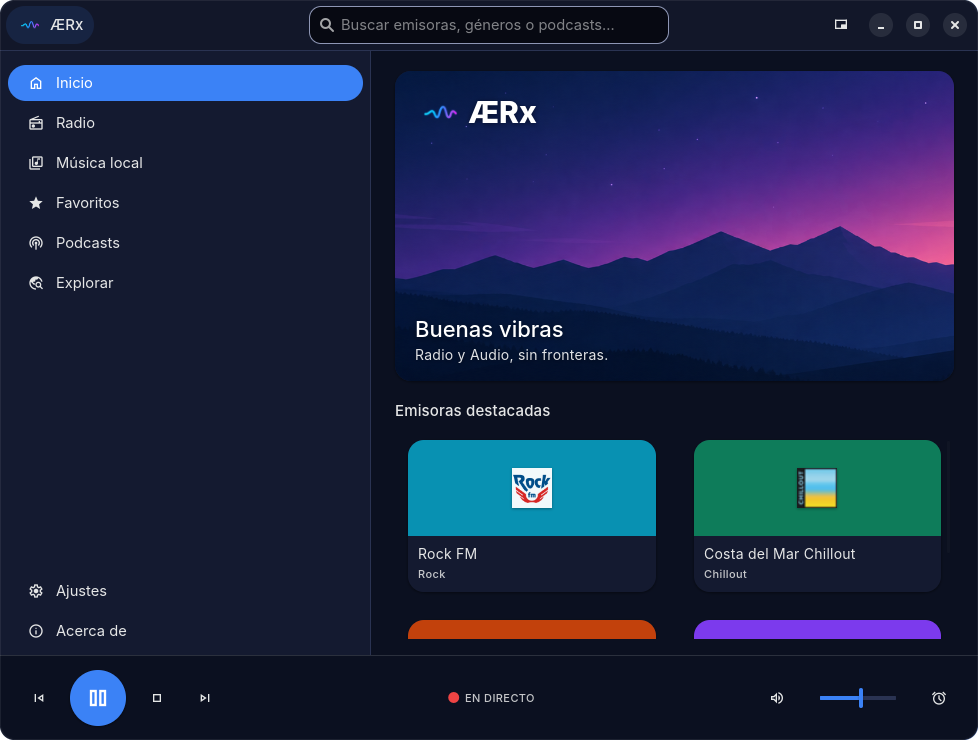
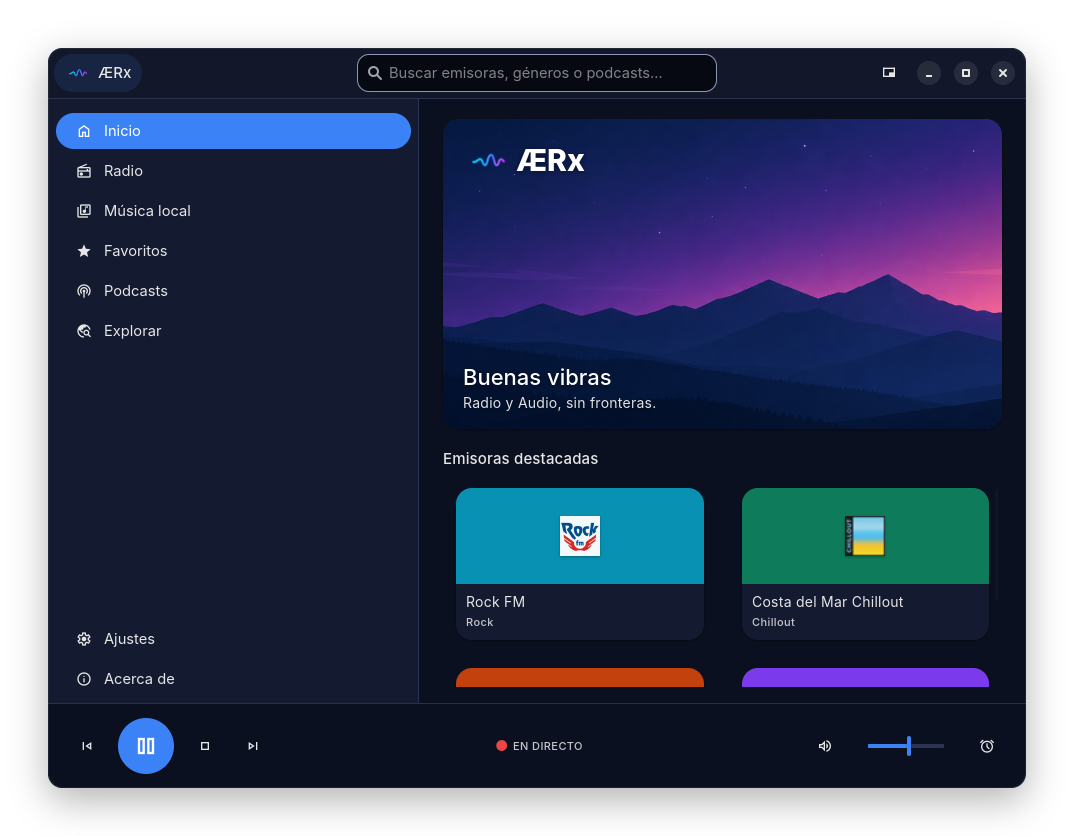
docs: sombra suave en las capturas del README
GitHub filtra el CSS del README, así que la sombra va integrada en el PNG
sobre un margen transparente; los anchos se ajustan para mantener el
tamaño visual de la ventana.

diff --git a/README.md b/README.md
@@ -52,22 +52,22 @@
 ## Interfaz
 
 <p align="center">
-  <img alt="Pantalla de inicio" src="assets/screenshots/inicio.png" width="720">
+  <img alt="Pantalla de inicio" src="assets/screenshots/inicio.png" width="791">
   <br><sub>Inicio — emisoras destacadas</sub>
 </p>
 
 <p align="center">
-  <img alt="Reproduciendo radio" src="assets/screenshots/radio.png" width="720">
+  <img alt="Reproduciendo radio" src="assets/screenshots/radio.png" width="791">
   <br><sub>Radio en directo — visualizador y anillo ambiental</sub>
 </p>
 
 <p align="center">
-  <img alt="Reproduciendo música local" src="assets/screenshots/musica-local.png" width="720">
+  <img alt="Reproduciendo música local" src="assets/screenshots/musica-local.png" width="791">
   <br><sub>Música local — fondo de carátula a pantalla completa</sub>
 </p>
 
 <p align="center">
-  <img alt="Modo mini-reproductor" src="assets/screenshots/mini.png" width="300">
+  <img alt="Modo mini-reproductor" src="assets/screenshots/mini.png" width="396">
   <br><sub>Modo mini-reproductor</sub>
 </p>
 
